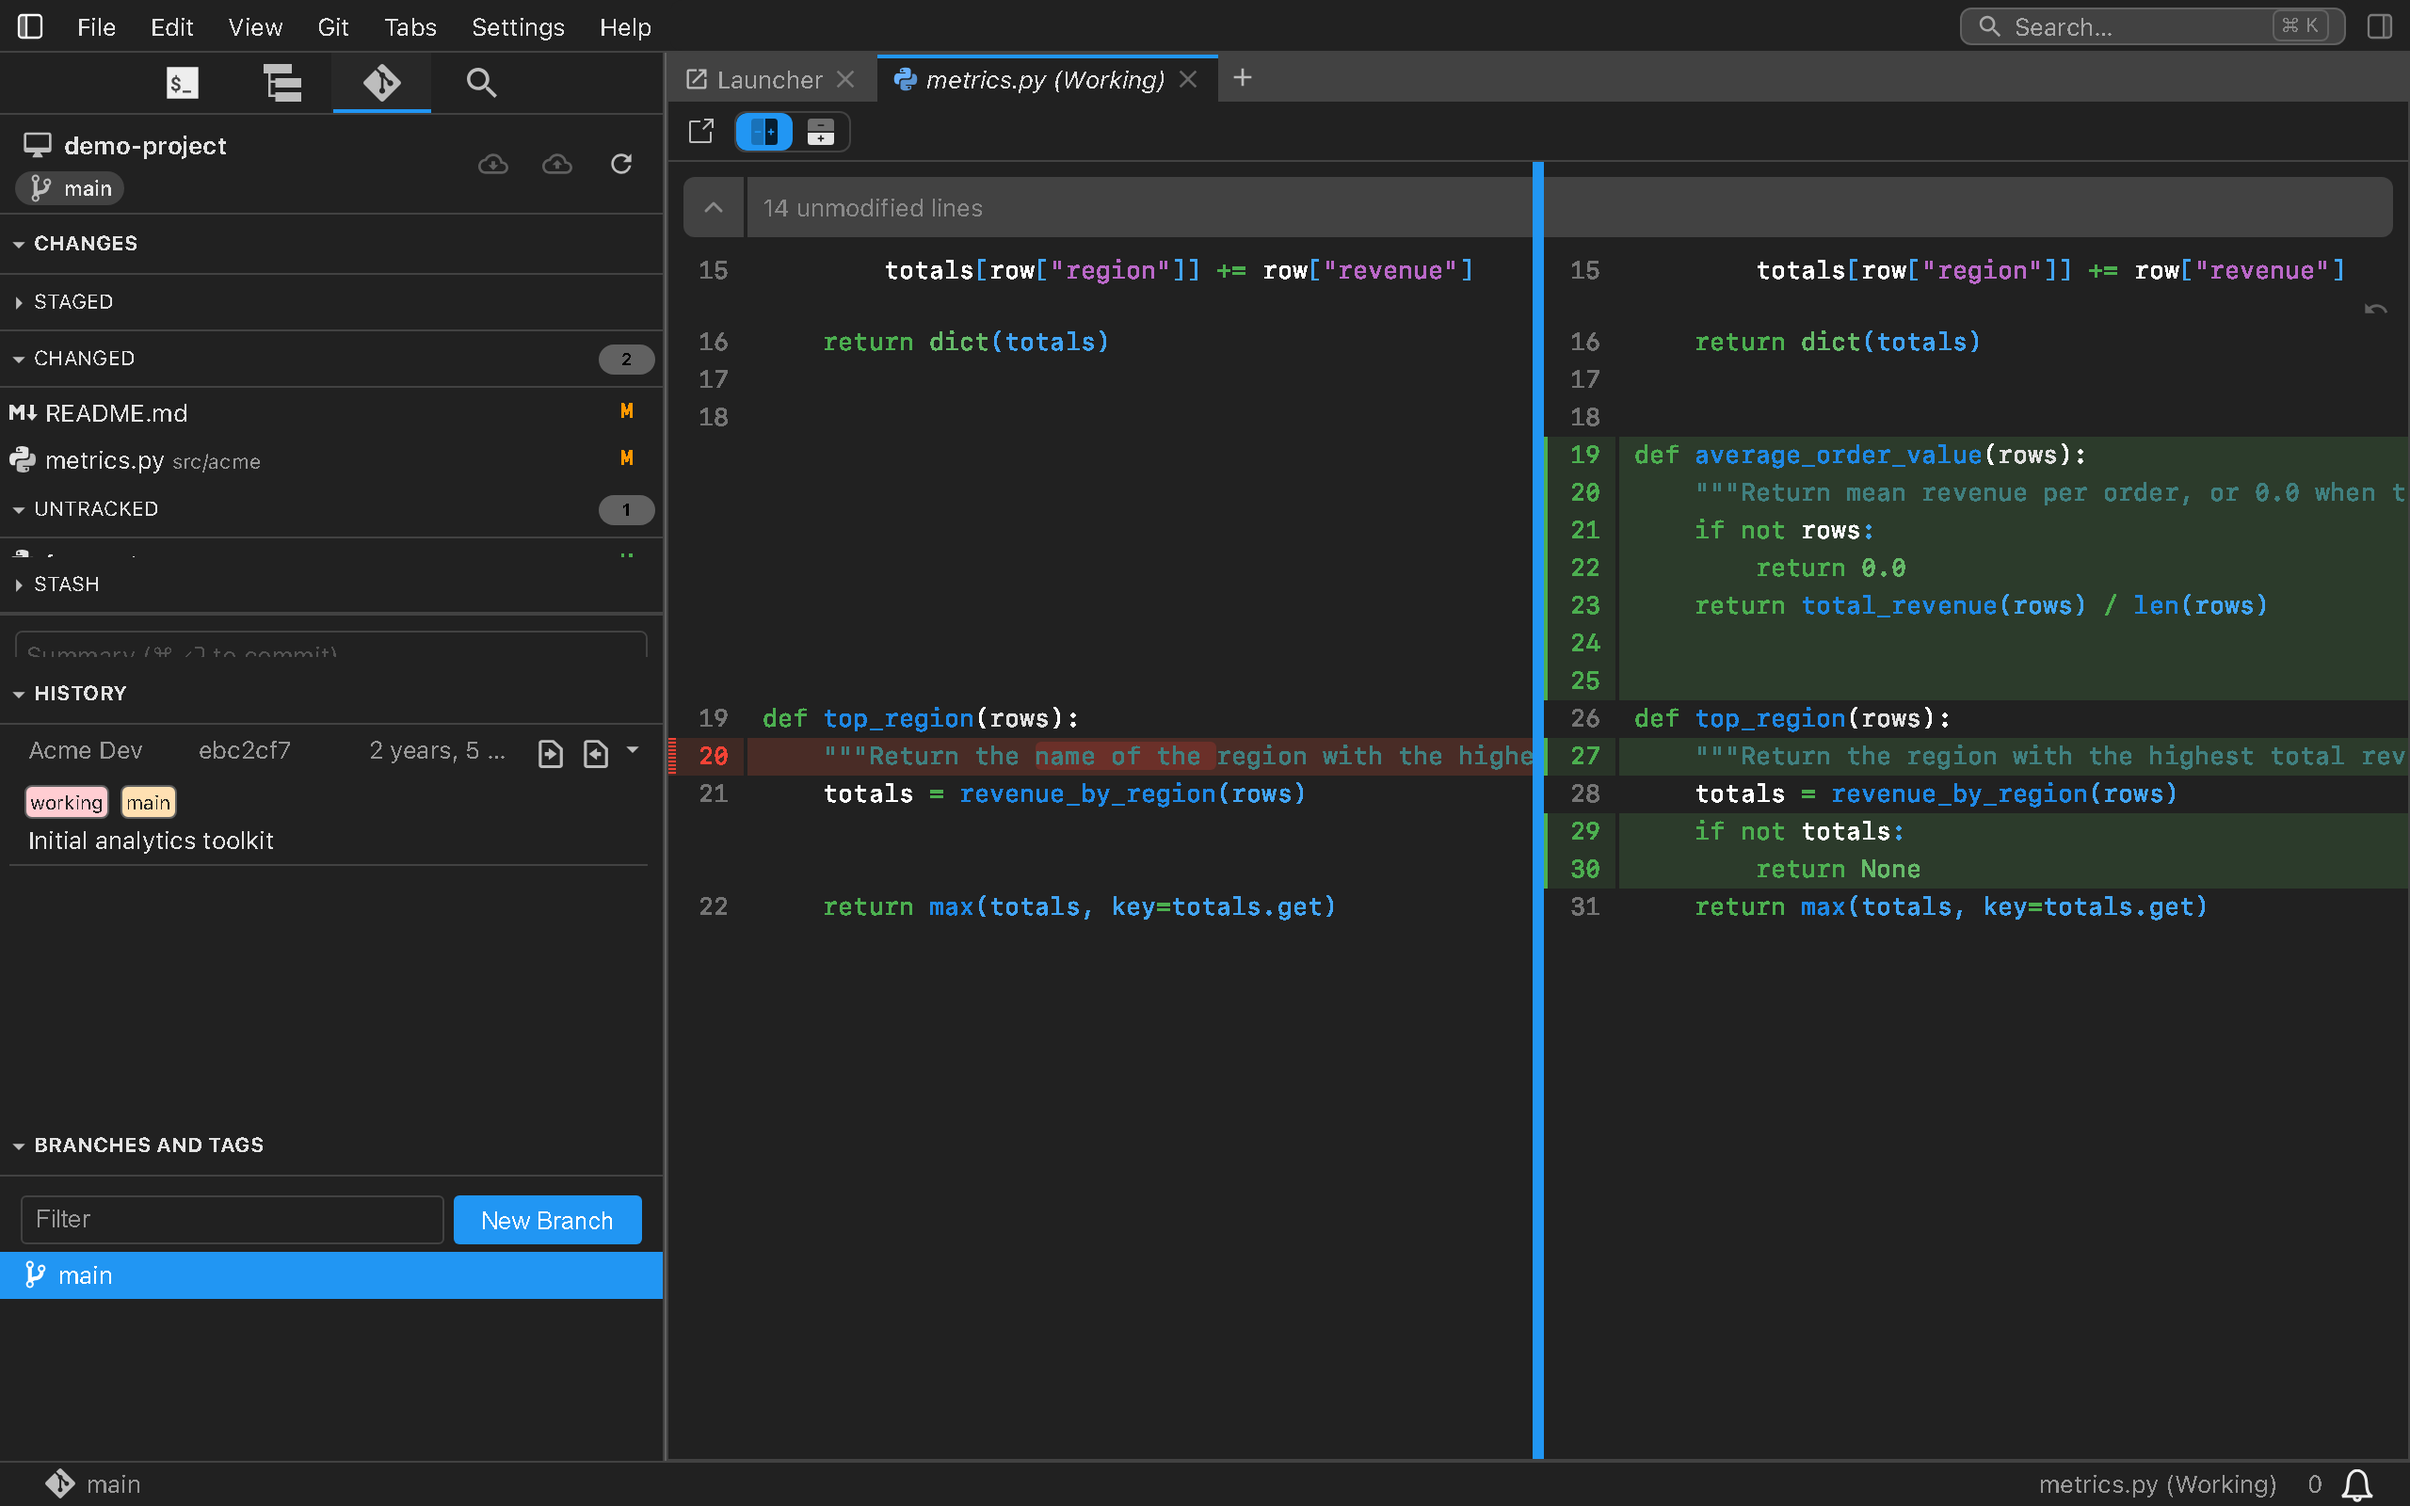
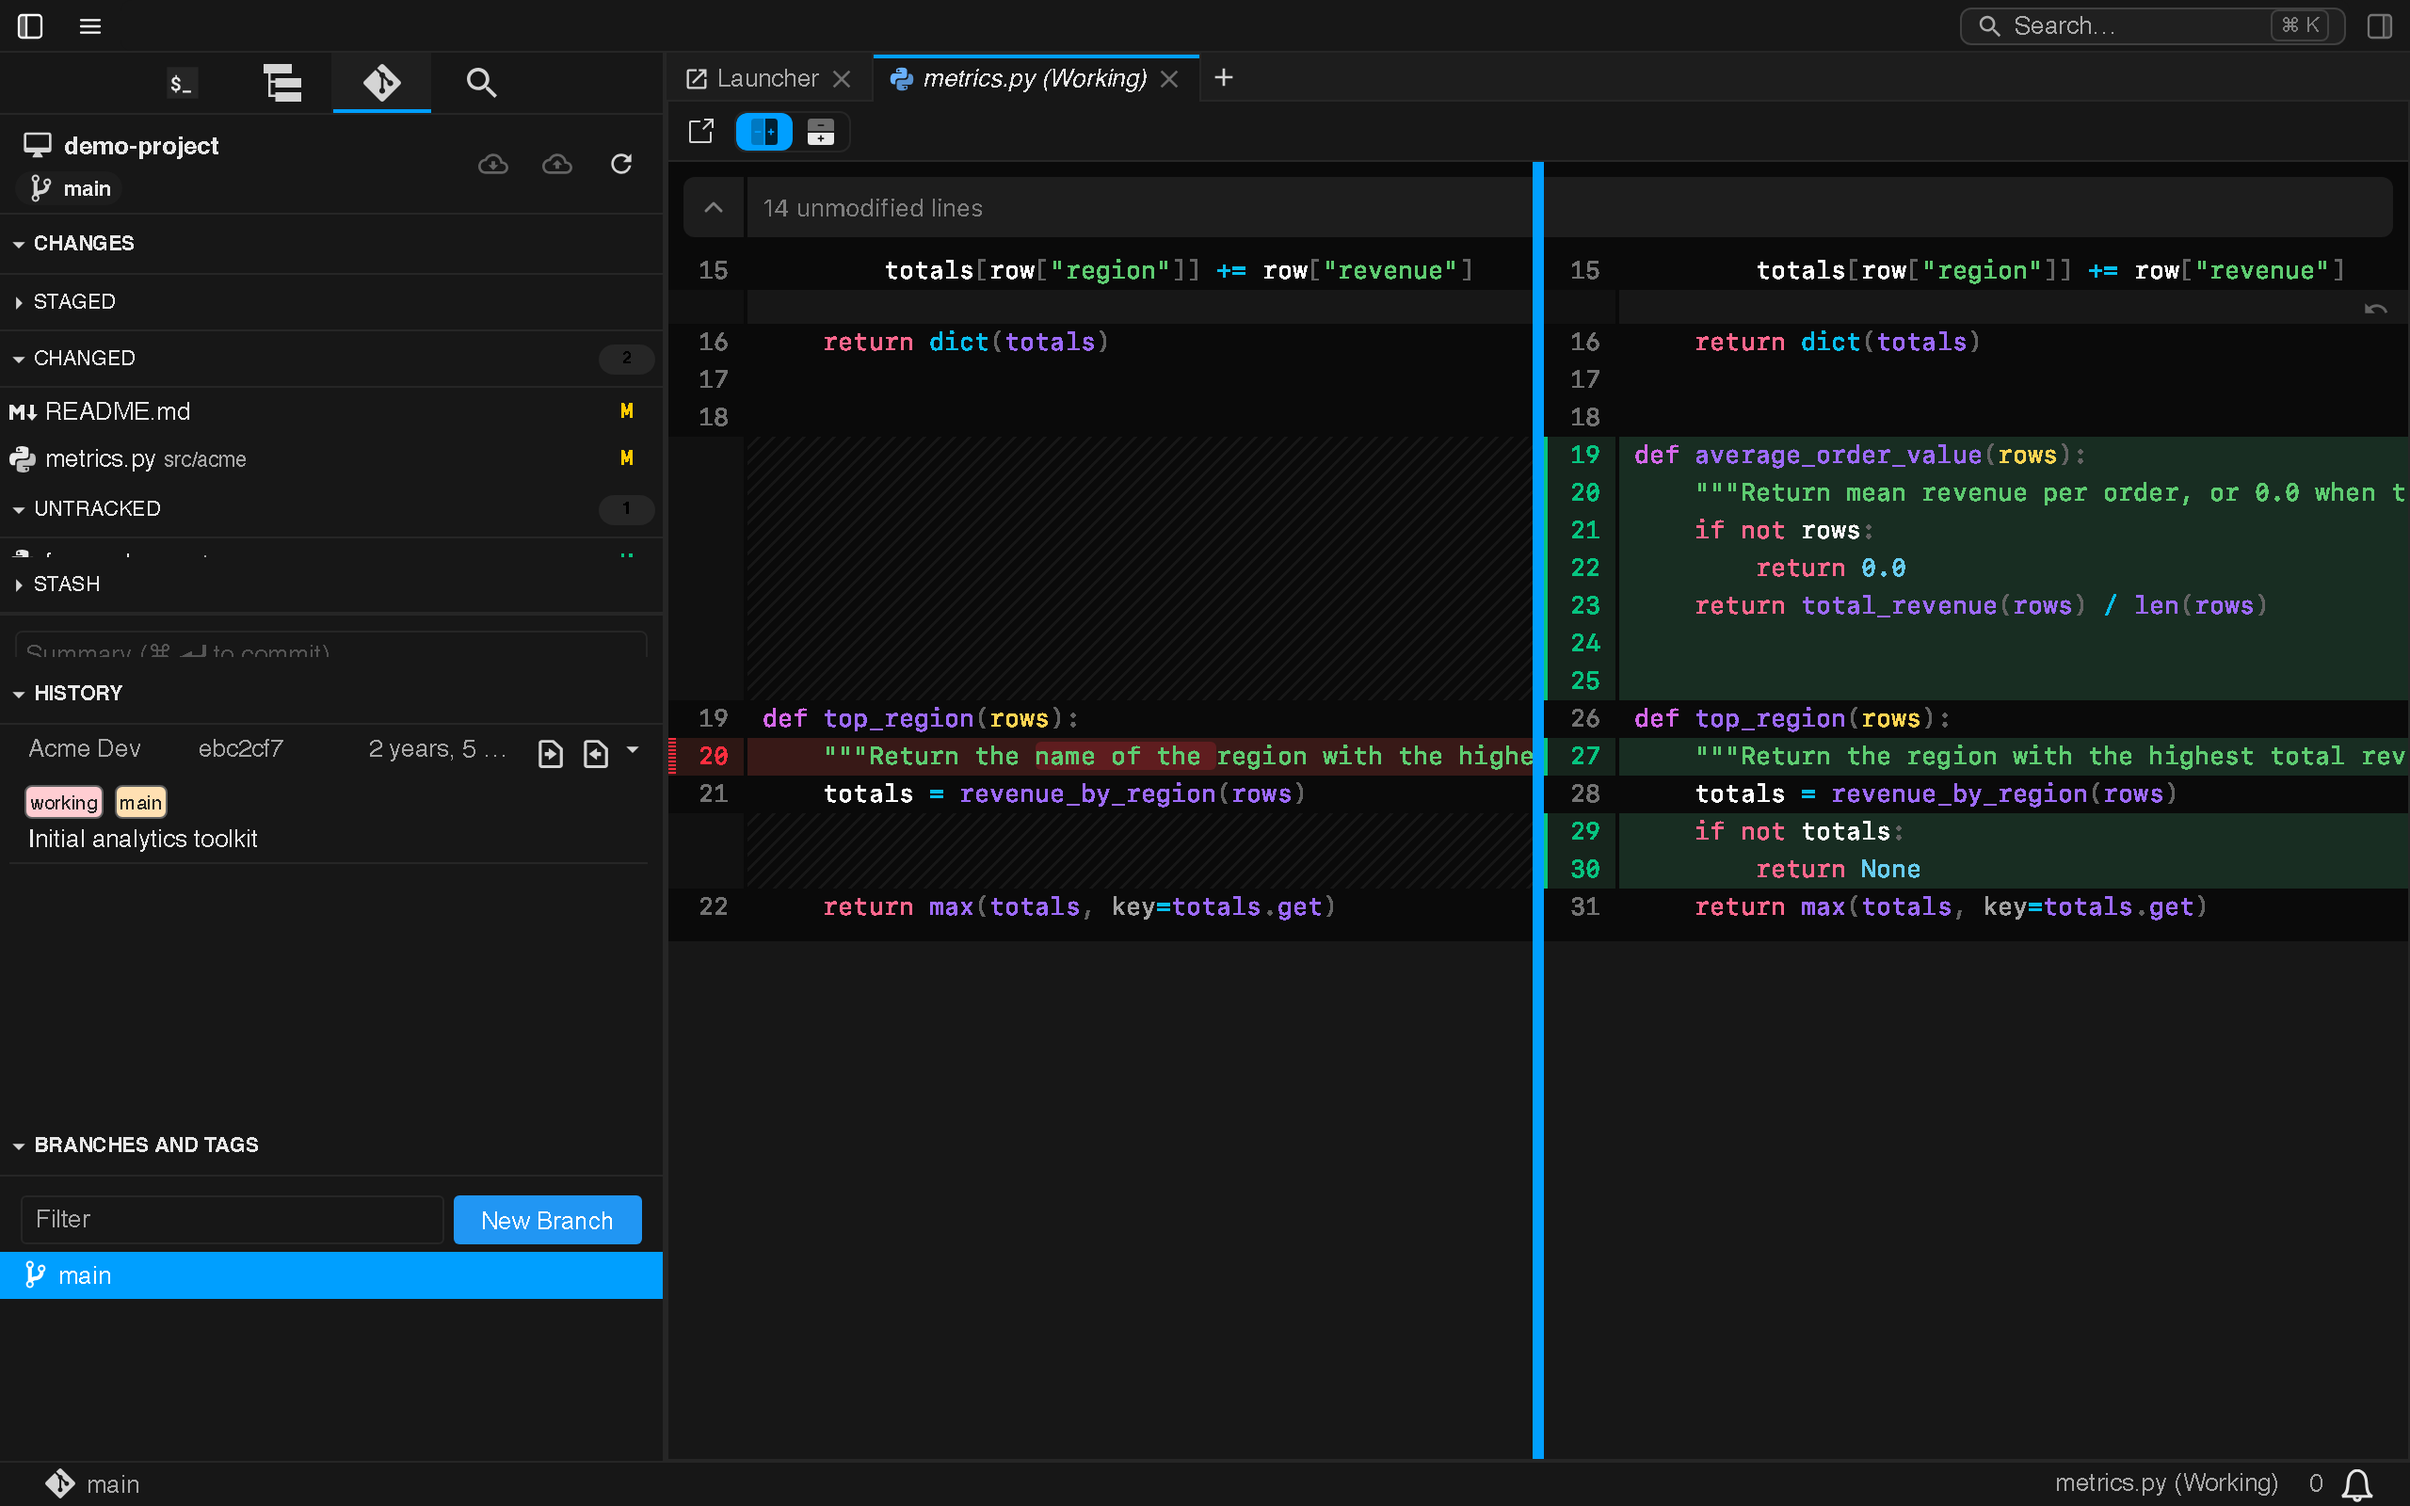
Collapse the main menu bar into a menu button (#84)
* Collapse the main menu bar into a menu button

* Regenerate documentation screenshots

* Trim the comments in the menu bar plugin

* Generate documentation screenshots with the Pierre Dark theme

diff --git a/src/menuBar/index.ts b/src/menuBar/index.ts
@@ -1,0 +1,195 @@
+import {
+  ILabShell,
+  JupyterFrontEnd,
+  JupyterFrontEndPlugin
+} from '@jupyterlab/application';
+import { ICommandPalette } from '@jupyterlab/apputils';
+import { IMainMenu, MainMenu } from '@jupyterlab/mainmenu';
+import { ISettingRegistry } from '@jupyterlab/settingregistry';
+import { ITranslator, nullTranslator } from '@jupyterlab/translation';
+import { CommandToolbarButton, MenuSvg } from '@jupyterlab/ui-components';
+import { Menu, Widget } from '@lumino/widgets';
+
+import { mainMenuIcon } from './icons';
+
+const PLUGIN_ID = 'xtralab:menu-bar';
+
+const OPEN_COMMAND = 'xtralab:open-main-menu';
+const TOGGLE_COMMAND = 'xtralab:toggle-menu-bar';
+
+/**
+ * How long after the popup closes a button press still counts as "close
+ * only". An open Lumino menu closes itself on any outside press from a
+ * document `pointerdown` listener in the capture phase, which runs before
+ * the button's own mousedown handler — so without this window, pressing the
+ * button while the popup is open would close it and instantly reopen it.
+ */
+const REOPEN_GUARD_MS = 250;
+
+/**
+ * Collapse the main menu bar into a compact menu button.
+ *
+ * The menu bar is hidden and a hamburger button in the top bar opens the same
+ * menus as a vertical popup. The popup reuses the live `RankedMenu` instances
+ * owned by the `MainMenu`, so menus added or removed at runtime are reflected
+ * without duplication.
+ *
+ * Hiding covers the `jp-menu-panel` container too, which has its own
+ * `min-height` and would otherwise leave an empty strip. The "Show Menu Bar"
+ * toggle restores the classic bar.
+ */
+const plugin: JupyterFrontEndPlugin<void> = {
+  id: PLUGIN_ID,
+  description: 'Collapse the main menu bar into a compact menu button.',
+  autoStart: true,
+  requires: [IMainMenu, ILabShell, ISettingRegistry],
+  optional: [ICommandPalette, ITranslator],
+  activate: (
+    app: JupyterFrontEnd,
+    mainMenu: IMainMenu,
+    labShell: ILabShell,
+    settingRegistry: ISettingRegistry,
+    palette: ICommandPalette | null,
+    translator: ITranslator | null
+  ): void => {
+    const { commands } = app;
+    const trans = (translator ?? nullTranslator).load('jupyterlab');
+
+    if (!(mainMenu instanceof MainMenu)) {
+      return;
+    }
+
+    const menuPanel = (): Widget | null =>
+      mainMenu.parent ??
+      Array.from(labShell.widgets('top')).find(w => w.id === 'jp-menu-panel') ??
+      null;
+
+    let visible = false;
+    let button: CommandToolbarButton | null = null;
+    let settings: ISettingRegistry.ISettings | null = null;
+
+    const applyVisibility = (value: boolean): void => {
+      visible = value;
+      mainMenu.setHidden(!value);
+      menuPanel()?.setHidden(!value);
+      button?.setHidden(value);
+      commands.notifyCommandChanged(TOGGLE_COMMAND);
+    };
+
+    mainMenu.hide();
+    menuPanel()?.hide();
+
+    let popup: Menu | null = null;
+    let popupClosedAt = 0;
+
+    const openMenu = (): void => {
+      if (visible) {
+        // The classic bar is on screen; behave like keyboard menu
+        // activation instead of opening a redundant popup that would
+        // compete with the bar for the same Menu instances.
+        mainMenu.activeIndex = 0;
+        mainMenu.openActiveMenu();
+        return;
+      }
+      if (Date.now() - popupClosedAt < REOPEN_GUARD_MS) {
+        return;
+      }
+
+      // One popup instance, rebuilt from the bar's current menus on every
+      // open so runtime menu changes stay reflected. It is a plain Lumino
+      // Menu rather than a MenuSvg: MenuSvg.insertItem re-wraps each
+      // submenu's renderer and insertItem on every call, which would pile
+      // wrappers onto the shared menus across reopens. The svg renderer and
+      // themed-container class are applied directly instead, matching how
+      // the real menus are constructed in MainMenu.
+      if (popup === null) {
+        popup = new Menu({ commands, renderer: MenuSvg.defaultRenderer });
+        popup.addClass('jp-ThemedContainer');
+        popup.addClass('jp-xtralab-MainMenuPopup');
+        popup.aboutToClose.connect(() => {
+          popupClosedAt = Date.now();
+        });
+      } else {
+        popup.clearItems();
+      }
+
+      // Skip empty menus: MenuBar disables their headings, but submenu items
+      // have no such affordance and would open a blank panel.
+      for (const menu of mainMenu.menus) {
+        if (menu.items.length > 0) {
+          popup.addItem({ type: 'submenu', submenu: menu });
+        }
+      }
+
+      const anchor = button?.node.getBoundingClientRect();
+      // The 3px gap matches the detached-dropdown offset chrome.css gives
+      // the real menu bar's dropdowns (.lm-Menu.lm-MenuBar-menu).
+      popup.open(anchor?.left ?? 0, (anchor?.bottom ?? 0) + 3);
+    };
+
+    commands.addCommand(OPEN_COMMAND, {
+      label: trans.__('Open Menu'),
+      caption: trans.__('Open the main menu'),
+      icon: mainMenuIcon,
+      execute: openMenu
+    });
+
+    commands.addCommand(TOGGLE_COMMAND, {
+      label: trans.__('Show Menu Bar'),
+      caption: trans.__('Toggle the visibility of the main menu bar'),
+      isToggled: () => visible,
+      execute: async () => {
+        applyVisibility(!visible);
+        if (settings !== null) {
+          try {
+            await settings.set('visible', visible);
+          } catch (reason) {
+            console.error(
+              'xtralab: failed to persist menu bar visibility',
+              reason
+            );
+          }
+        }
+      }
+    });
+
+    if (palette) {
+      const category = trans.__('Other');
+      palette.addItem({ command: OPEN_COMMAND, category });
+      palette.addItem({ command: TOGGLE_COMMAND, category });
+    }
+
+    Promise.all([settingRegistry.load(PLUGIN_ID), app.restored])
+      .then(([loaded]) => {
+        settings = loaded;
+
+        button = new CommandToolbarButton({
+          commands,
+          id: OPEN_COMMAND,
+          icon: mainMenuIcon,
+          label: '',
+          caption: trans.__('Menu'),
+          noFocusOnClick: true,
+          'aria-haspopup': 'menu'
+        });
+        button.id = 'xtralab-main-menu-button';
+        button.addClass('jp-xtralab-TopBarButton');
+        labShell.add(button, 'top', { rank: 0 });
+
+        const update = (): void => {
+          applyVisibility(loaded.get('visible').composite as boolean);
+        };
+        update();
+        loaded.changed.connect(update);
+      })
+      .catch(reason => {
+        // Without settings the collapsed state cannot be managed (and the
+        // button was never added) — reveal the stock bar rather than leave
+        // the app with no reachable menus.
+        applyVisibility(true);
+        console.error(`Failed to load settings for ${PLUGIN_ID}`, reason);
+      });
+  }
+};
+
+export default plugin;

diff --git a/ui-tests/screenshots.spec.ts b/ui-tests/screenshots.spec.ts
@@ -29,7 +29,7 @@ test.use({
   // defaults apply); these overrides are layered on top, in memory only.
   // The sidebar tabs are trimmed to the ones the screenshots are about.
   mockSettings: {
-    '@jupyterlab/apputils-extension:themes': { theme: 'JupyterLab Dark' },
+    '@jupyterlab/apputils-extension:themes': { theme: 'Pierre Dark' },
     'xtralab:sidebar': {
       showDefaultFileBrowser: false,
       showRunningSessions: false
@@ -43,7 +43,7 @@ test.beforeAll(() => {
 
 async function ready(page: IJupyterLabPageFixture): Promise<void> {
   await page.goto();
-  await page.waitForSelector('body[data-jp-theme-name="JupyterLab Dark"]', {
+  await page.waitForSelector('body[data-jp-theme-name="Pierre Dark"]', {
     state: 'attached'
   });
   // Hiding the default file browser can leave the sidebar stack without a

diff --git a/src/menuBar/icons.ts b/src/menuBar/icons.ts
@@ -1,0 +1,14 @@
+import { LabIcon } from '@jupyterlab/ui-components';
+
+/**
+ * Hamburger mark for the collapsed main-menu button, matching the sidebar
+ * toggles in ../topBar/icons.ts.
+ */
+export const mainMenuIcon = new LabIcon({
+  name: 'xtralab:main-menu',
+  svgstr: `<svg xmlns="http://www.w3.org/2000/svg" viewBox="0 0 24 24" fill="none">
+  <line x1="4.5" y1="7" x2="19.5" y2="7" stroke="currentColor" stroke-width="1.7" stroke-linecap="round"/>
+  <line x1="4.5" y1="12" x2="19.5" y2="12" stroke="currentColor" stroke-width="1.7" stroke-linecap="round"/>
+  <line x1="4.5" y1="17" x2="19.5" y2="17" stroke="currentColor" stroke-width="1.7" stroke-linecap="round"/>
+</svg>`
+});

diff --git a/src/index.ts b/src/index.ts
@@ -11,6 +11,7 @@ import editorIndentPlugin from './editorIndent';
 import gitPlugins from './git';
 import highlightPlugin from './highlight';
 import launcherPlugins from './launcher';
+import menuBarPlugin from './menuBar';
 import menusPlugin from './menus';
 import omniboxPlugin from './omnibox';
 import searchReplacePlugin from './searchReplace';
@@ -42,6 +43,7 @@ const plugins: JupyterFrontEndPlugin<unknown>[] = [
   ...gitPlugins,
   highlightPlugin,
   ...launcherPlugins,
+  menuBarPlugin,
   menusPlugin,
   omniboxPlugin,
   searchReplacePlugin,

diff --git a/ui-tests/README.md b/ui-tests/README.md
@@ -25,7 +25,7 @@ pnpm screenshots
 ```
 
 Playwright starts the server itself (port 8899) with an isolated Jupyter
-config, forces the JupyterLab Dark theme in memory, and shuts everything down
+config, forces the Pierre Dark theme in memory, and shuts everything down
 afterwards.
 
 ## What is not regenerated
